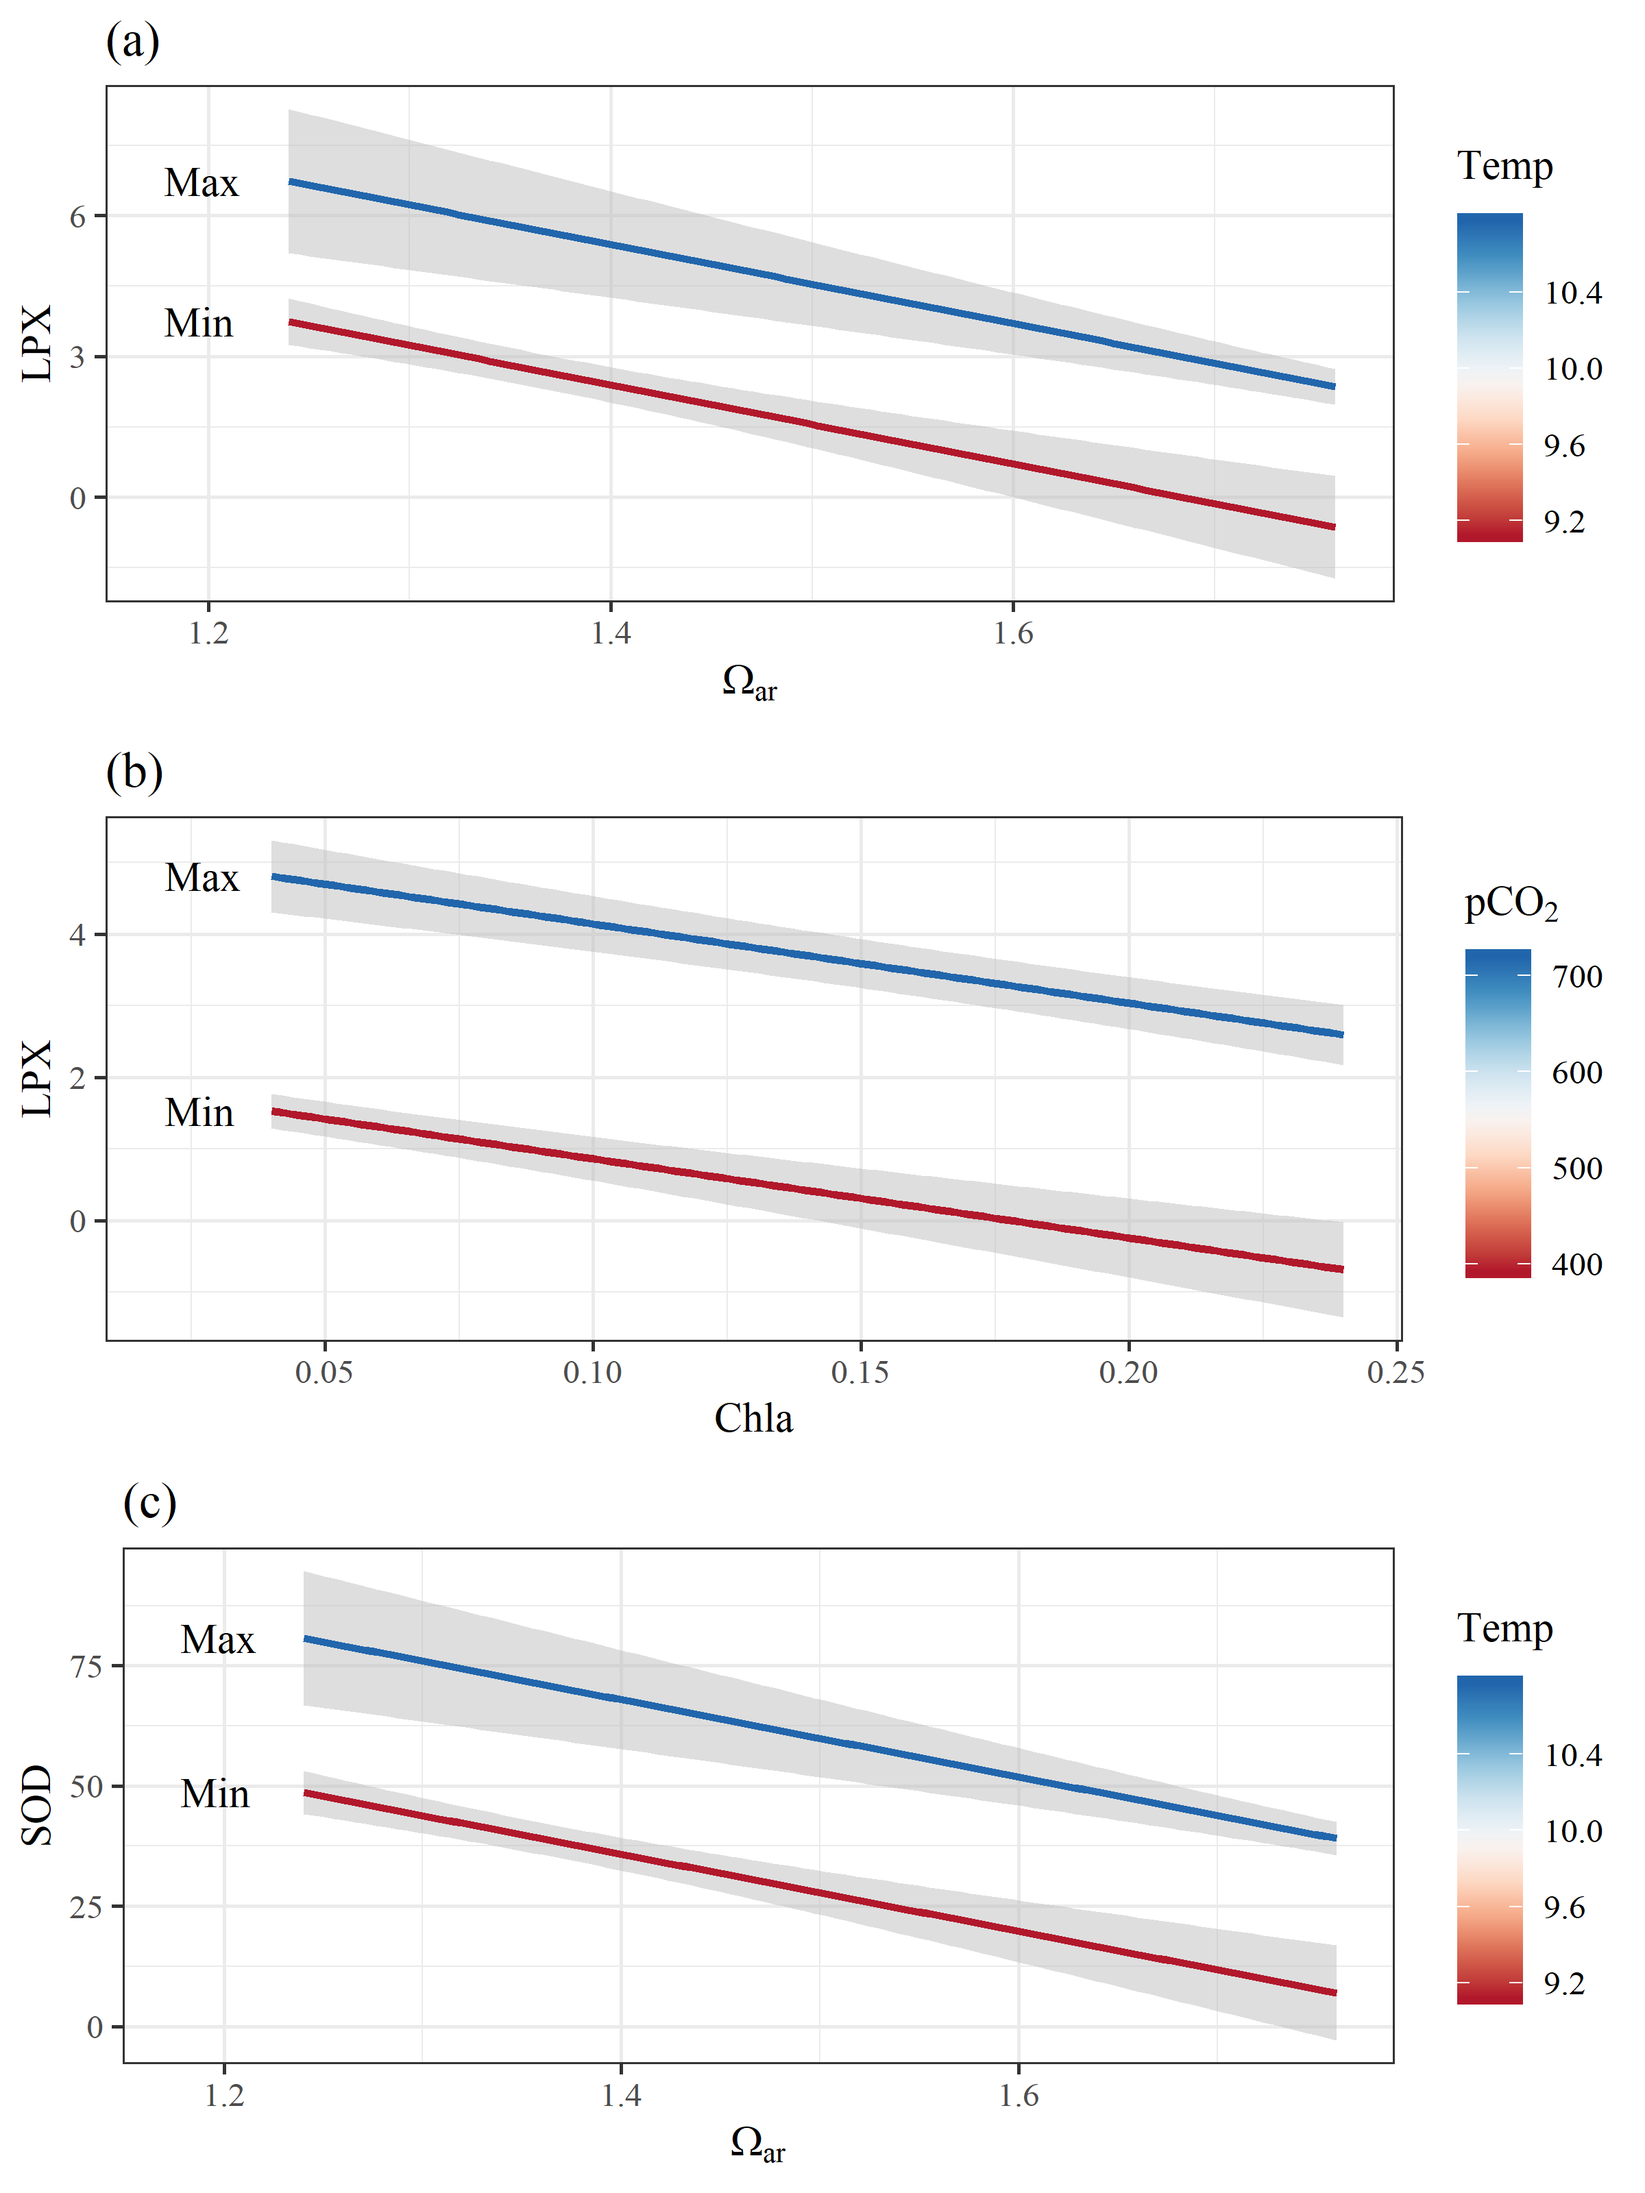
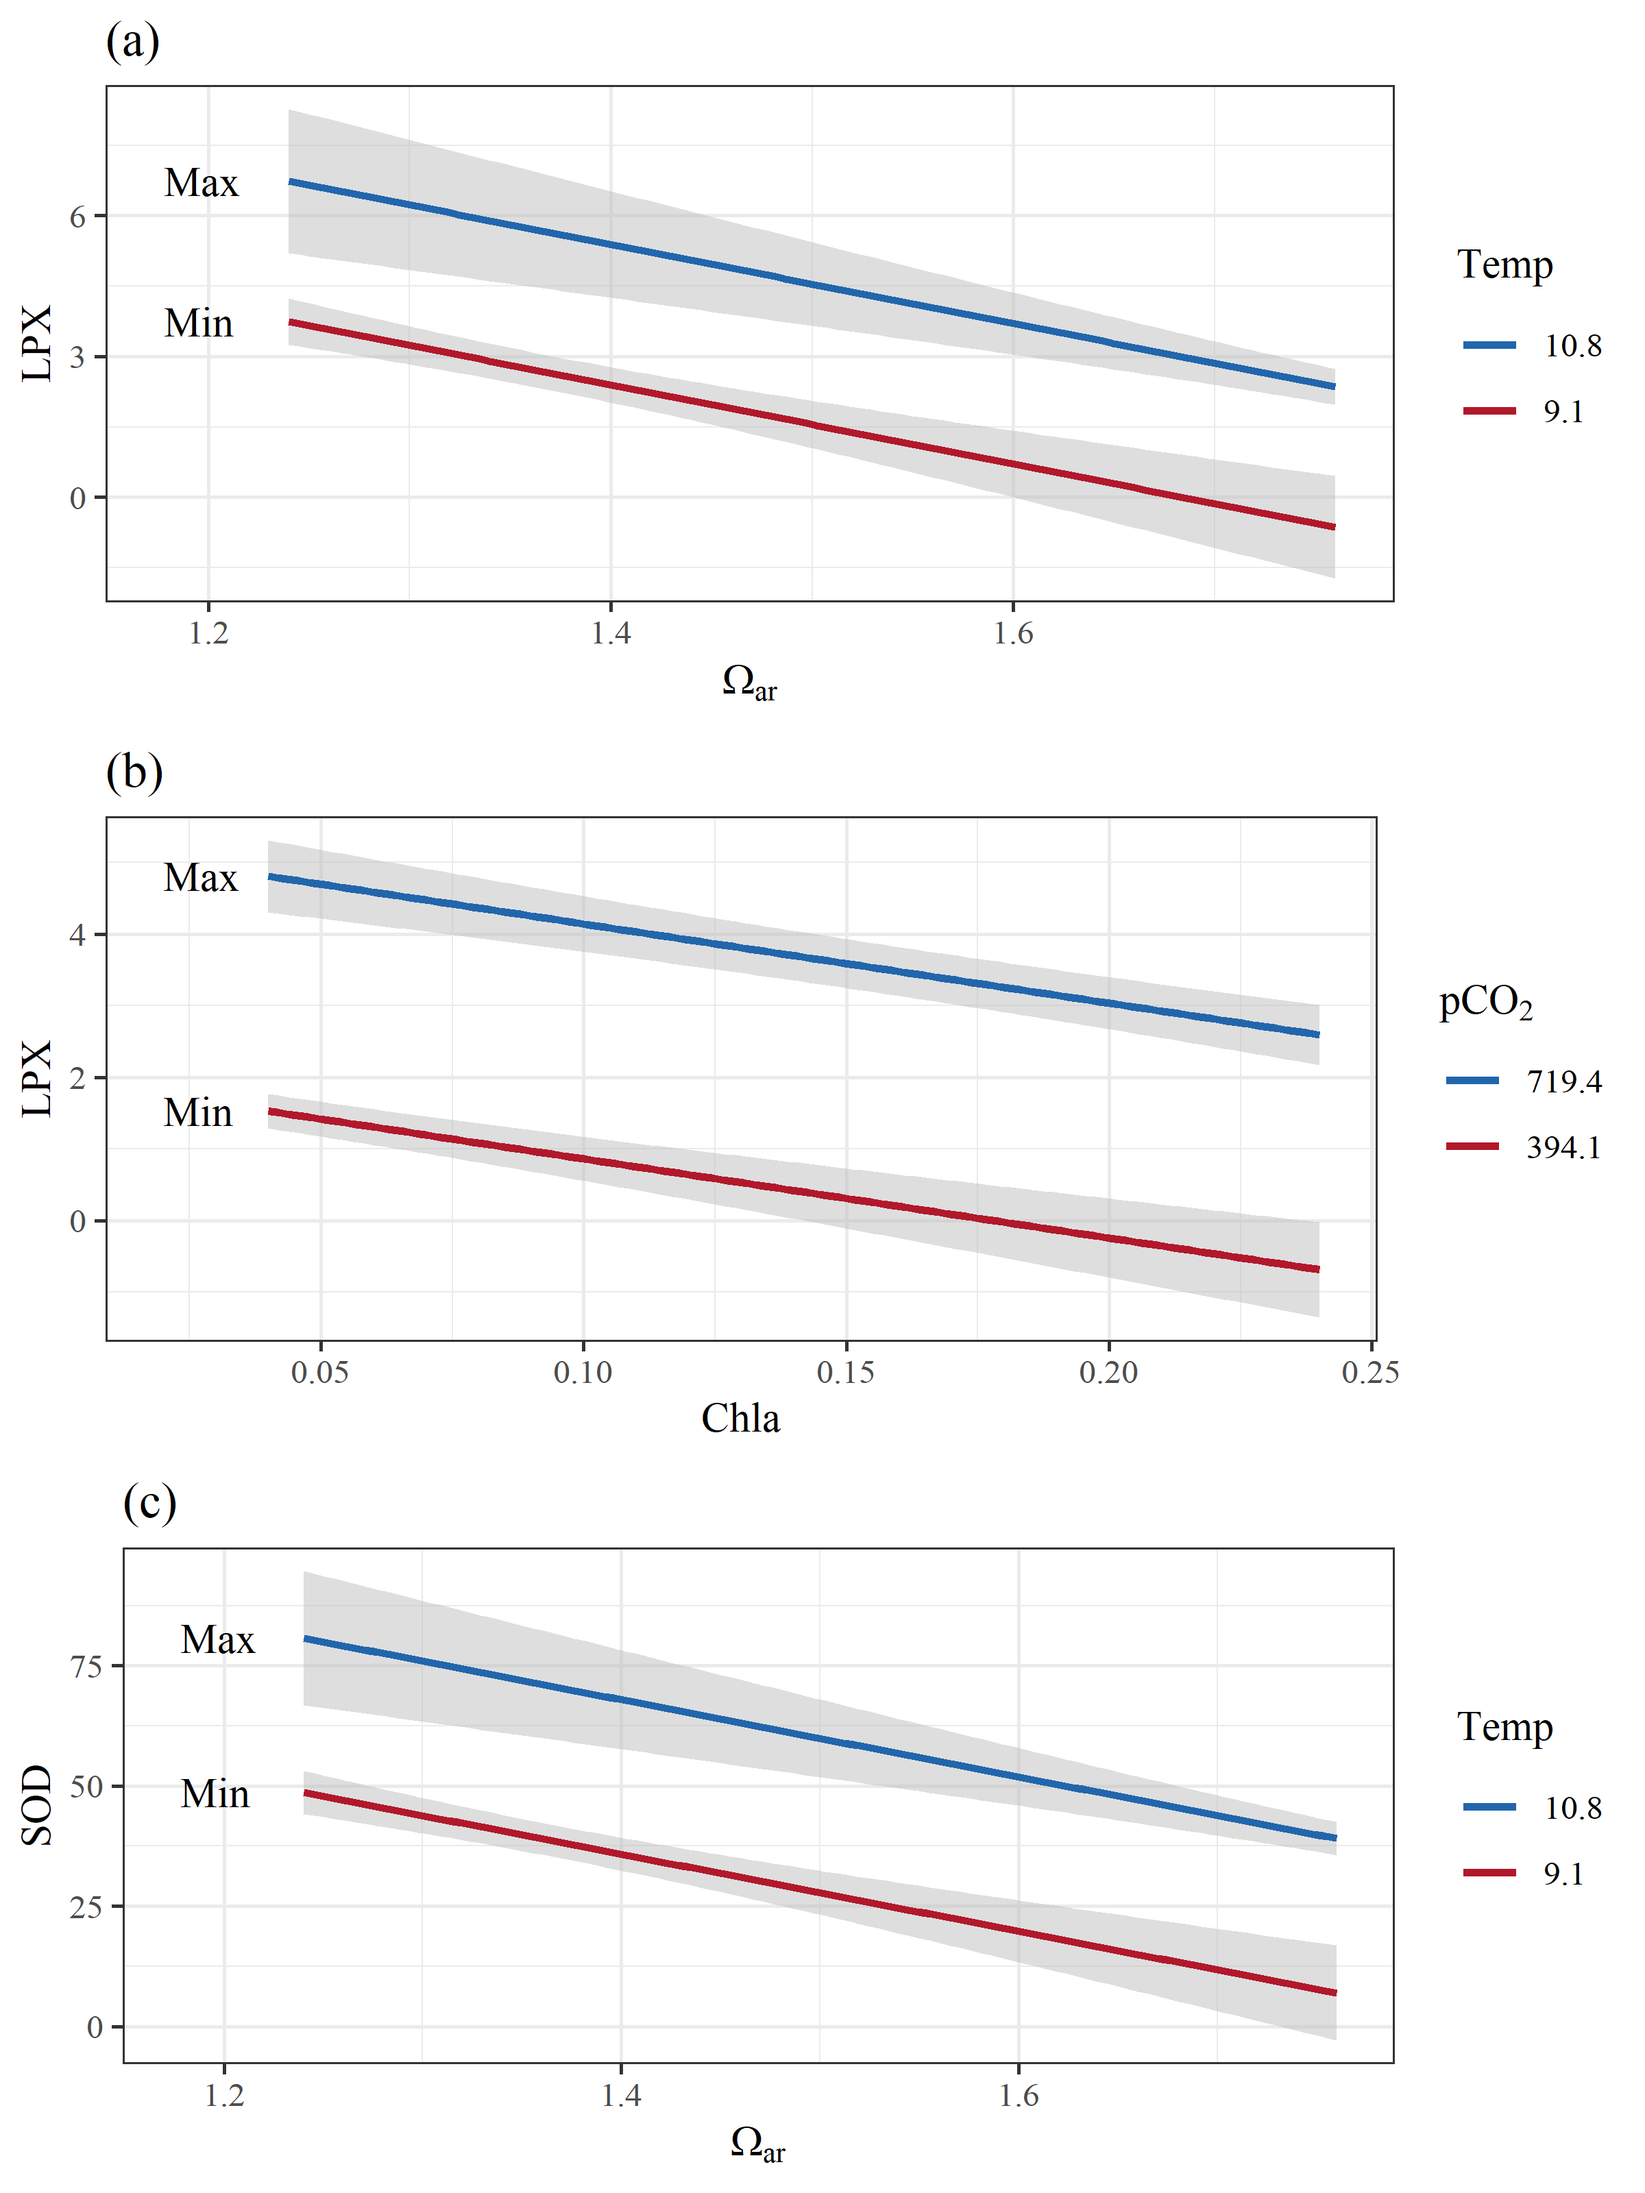
figs 6 and 7 legend as discrete

diff --git a/figures.html b/figures.html
@@ -347,24 +347,30 @@ grid.draw(gt)</code></pre>
       get_pldat(Modobj, cvar, fct = fct)
     
     }),
-    plos = pmap(list(pldat, xvar, legr), function(pldat, xvar, legr){
+    plos = pmap(list(pldat, xvar, cvar, legr), function(pldat, xvar, cvar, legr){
       
       pl1 &lt;- pldat[[1]]
       pl2 &lt;- pldat[[2]]
+      
+      # leg vals as factor 
+      pl1[[cvar]] &lt;- factor(pl1[[cvar]], 
+                            levels = sort(unique(pl1[[cvar]]), decreasing = T),
+                            labels = round(sort(unique(pl1[[cvar]]), decreasing = T), 1)
+      )
       
       # colors
       cols &lt;- RColorBrewer::brewer.pal(9, &#39;RdBu&#39;)
       
       # names for aes_string
       nms &lt;- names(pl1)
-      
+  
       p1 &lt;- ggplot() +
         geom_ribbon(data = pl1, aes_string(x = nms[3], ymin = &#39;lo&#39;, ymax = &#39;hi&#39;, group = nms[4]), alpha = 0.5, fill = &#39;grey&#39;) +
         geom_line(data = pl1, aes_string(x = nms[3], y = nms[1], group = nms[4], colour = nms[4]), size = 1) + 
         geom_text(data = pl2, aes(x= x, y = y, label = lab), hjust = 0) +
         theme_bw() +
         xlab(parse(text = xvar)) +
-        scale_colour_gradientn(parse(text = legr), colours = cols) +
+        scale_colour_manual(parse(text = legr), values = c(rev(cols)[1], cols[1])) +
         scale_y_continuous(nms[1])
       
       return(p1)
@@ -410,10 +416,16 @@ grid.arrange(
       get_pldat(Modobj, cvar, pos = pos, fct = fct)
     
     }),
-    plos = pmap(list(pldat, xvar, yvar, legr, hjs), function(pldat, xvar, yvar, legr, hjs){
+    plos = pmap(list(pldat, xvar, yvar, cvar, legr, hjs), function(pldat, xvar, yvar, cvar, legr, hjs){
       
       pl1 &lt;- pldat[[1]]
       pl2 &lt;- pldat[[2]]
+      
+      # leg vals as factor 
+      pl1[[cvar]] &lt;- factor(pl1[[cvar]], 
+                            levels = sort(unique(pl1[[cvar]]), decreasing = T),
+                            labels = round(sort(unique(pl1[[cvar]]), decreasing = T), 1)
+      )
       
       # colors
       cols &lt;- RColorBrewer::brewer.pal(9, &#39;RdBu&#39;)
@@ -427,7 +439,7 @@ grid.arrange(
         geom_text(data = pl2, aes(x= x, y = y, label = lab), hjust = hjs) +
         theme_bw() +
         xlab(parse(text = xvar)) +
-        scale_colour_gradientn(parse(text = legr), colours = cols) +
+        scale_colour_manual(parse(text = legr), values = c(rev(cols)[1], cols[1])) +
         scale_y_continuous(yvar)
       
       return(p1)

diff --git a/figures.md b/figures.md
@@ -242,24 +242,30 @@ toplo <- biomod %>%
       get_pldat(Modobj, cvar, fct = fct)
     
     }),
-    plos = pmap(list(pldat, xvar, legr), function(pldat, xvar, legr){
+    plos = pmap(list(pldat, xvar, cvar, legr), function(pldat, xvar, cvar, legr){
       
       pl1 <- pldat[[1]]
       pl2 <- pldat[[2]]
+      
+      # leg vals as factor 
+      pl1[[cvar]] <- factor(pl1[[cvar]], 
+                            levels = sort(unique(pl1[[cvar]]), decreasing = T),
+                            labels = round(sort(unique(pl1[[cvar]]), decreasing = T), 1)
+      )
       
       # colors
       cols <- RColorBrewer::brewer.pal(9, 'RdBu')
       
       # names for aes_string
       nms <- names(pl1)
-      
+  
       p1 <- ggplot() +
         geom_ribbon(data = pl1, aes_string(x = nms[3], ymin = 'lo', ymax = 'hi', group = nms[4]), alpha = 0.5, fill = 'grey') +
         geom_line(data = pl1, aes_string(x = nms[3], y = nms[1], group = nms[4], colour = nms[4]), size = 1) + 
         geom_text(data = pl2, aes(x= x, y = y, label = lab), hjust = 0) +
         theme_bw() +
         xlab(parse(text = xvar)) +
-        scale_colour_gradientn(parse(text = legr), colours = cols) +
+        scale_colour_manual(parse(text = legr), values = c(rev(cols)[1], cols[1])) +
         scale_y_continuous(nms[1])
       
       return(p1)
@@ -311,10 +317,16 @@ toplo <- rbind(
       get_pldat(Modobj, cvar, pos = pos, fct = fct)
     
     }),
-    plos = pmap(list(pldat, xvar, yvar, legr, hjs), function(pldat, xvar, yvar, legr, hjs){
+    plos = pmap(list(pldat, xvar, yvar, cvar, legr, hjs), function(pldat, xvar, yvar, cvar, legr, hjs){
       
       pl1 <- pldat[[1]]
       pl2 <- pldat[[2]]
+      
+      # leg vals as factor 
+      pl1[[cvar]] <- factor(pl1[[cvar]], 
+                            levels = sort(unique(pl1[[cvar]]), decreasing = T),
+                            labels = round(sort(unique(pl1[[cvar]]), decreasing = T), 1)
+      )
       
       # colors
       cols <- RColorBrewer::brewer.pal(9, 'RdBu')
@@ -328,7 +340,7 @@ toplo <- rbind(
         geom_text(data = pl2, aes(x= x, y = y, label = lab), hjust = hjs) +
         theme_bw() +
         xlab(parse(text = xvar)) +
-        scale_colour_gradientn(parse(text = legr), colours = cols) +
+        scale_colour_manual(parse(text = legr), values = c(rev(cols)[1], cols[1])) +
         scale_y_continuous(yvar)
       
       return(p1)
